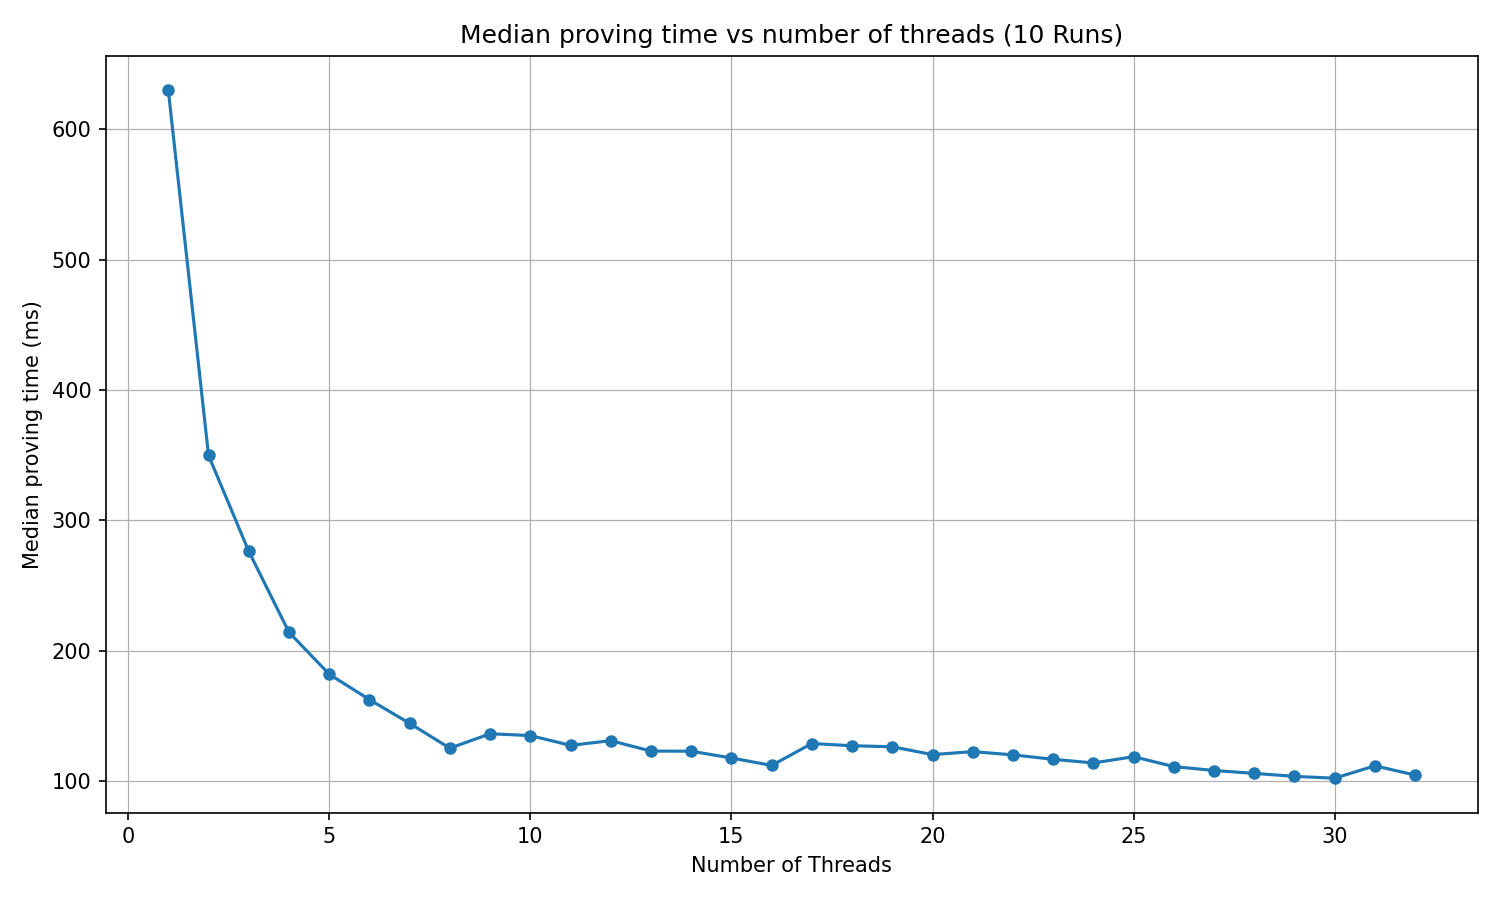
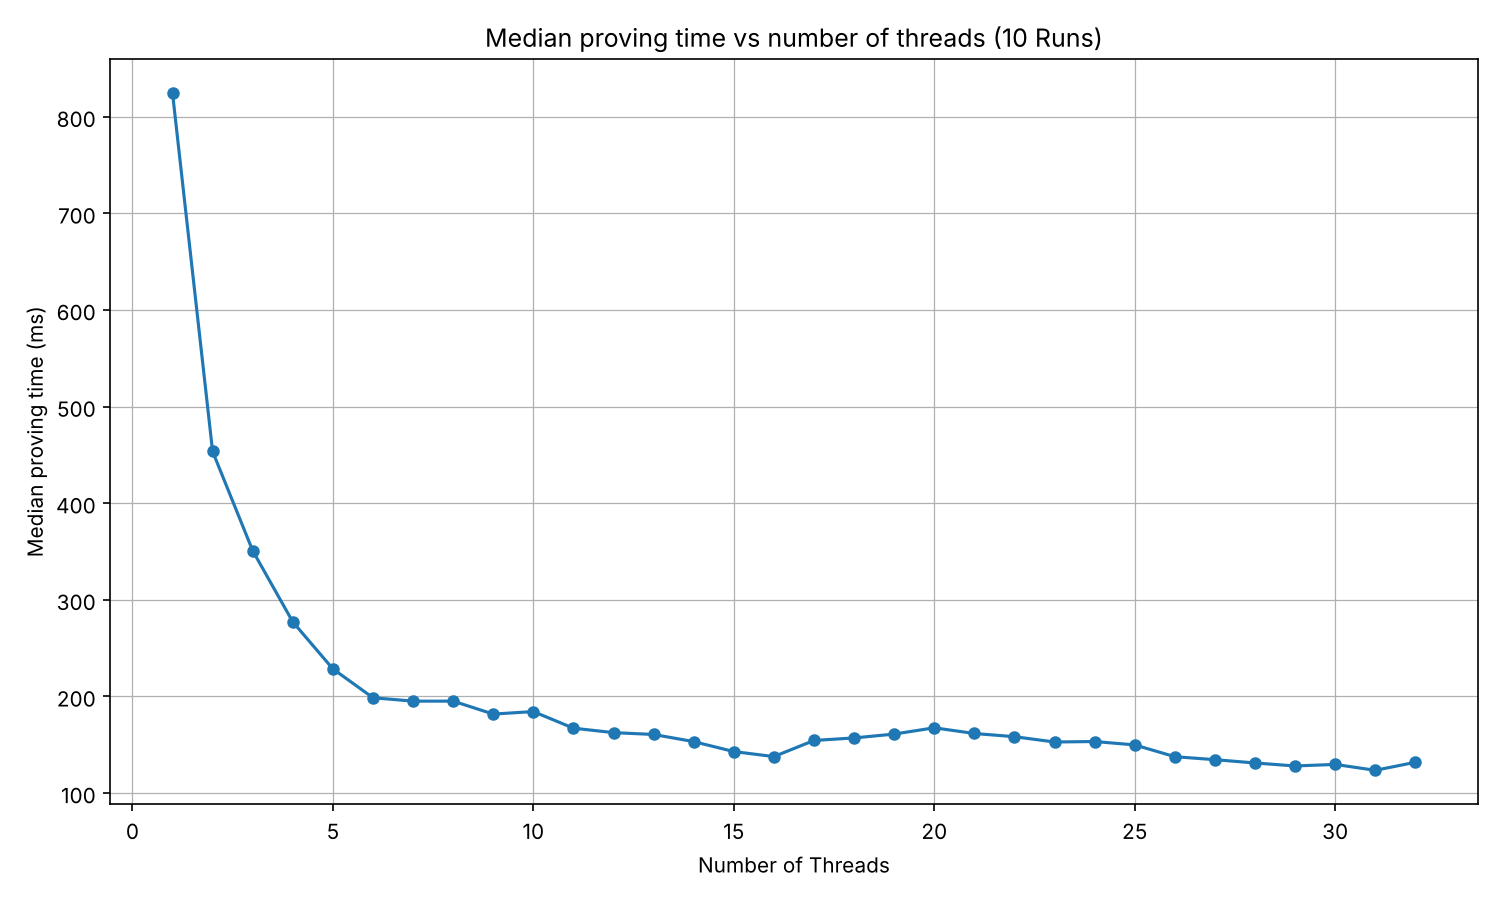
docs(blockchain): proving time benchmarks of the PoL, PoQ and ZkProgramSpend circuits

diff --git a/docs/blockchain/raw/rfc/RFC-481-mantle-programs-governing-channel-notes.md b/docs/blockchain/raw/rfc/RFC-481-mantle-programs-governing-channel-notes.md
@@ -46,9 +46,6 @@ Users stay hidden: payments consume notes by nullifier, and the notes a program 
 ## Open questions
 
 > **TODO (author):** the Execution Gas of `PROGRAM_REGISTER`, of the `ZkProgramSpend` and of the program proof, from measurements.
-
-> **TODO (author):** the circuit of the `ZkProgramSpend`, its constraint count and its proving time.
-
 # Details
 
 ## 1. Program notes
@@ -106,7 +103,7 @@ Validation of a program step, in order:
 3. The program spend consumes unspent notes of the program, possibly none, and its `ZkProgramSpend` verifies with `paid_value` the sum of the payments, `spend_notes_hash`, and the `op_id` of the inscription.
 4. The program proof verifies under the registered key on `(spend_notes_hash, payments_hash(step), op_id)`.
 
-The `ZkProgramSpend` is the ZkTransfer with program checks: its inputs are notes of `program_id`, its outputs are notes of `program_id` or user notes, `spend_notes_hash` commits to the active flag and the note of every input and output, and `sum(inputs_value) + paid_value == sum(outputs_value)`. Its used inputs and outputs are marked by the public flags `inputs_active` and `outputs_active`, set from the published lists as in the ZkTransfer. It is proven by the sequencer.
+The `ZkProgramSpend` is the ZkTransfer with program checks: its inputs are notes of `program_id`, its outputs are notes of `program_id` or user notes, `spend_notes_hash` commits to the active flag and the note of every input and output, and `sum(inputs_value) + paid_value == sum(outputs_value)`. Its used inputs and outputs are marked by the public flags `inputs_active` and `outputs_active`, set from the published lists as in the ZkTransfer. It is proven by the sequencer. The circuit (`program_spend` in [logos-blockchain-circuits](https://github.com/logos-blockchain/logos-blockchain-circuits)) has 66,481 constraints and proves in about 2.1 s on one thread and 0.3 s on 32 threads (see the Mantle benchmark).
 
 ## 3. What enforces what
 

diff --git a/docs/blockchain/raw/bedrock-v1.1-mantle-specification.md b/docs/blockchain/raw/bedrock-v1.1-mantle-specification.md
@@ -2172,7 +2172,7 @@ The material used for the benchmarks is the following:
 - OS        : Ubuntu 22.04.5 LTS
 - Kernel    : 6.8.0-59-generic
 
-TODO: update the benchmark
+![Diagram](bedrock-v1.1-mantle-specification/assets/zkprogramspend_proving_time_vs_threads.png)
 
 ## Multiple Ed25519 Signatures Verification
 
